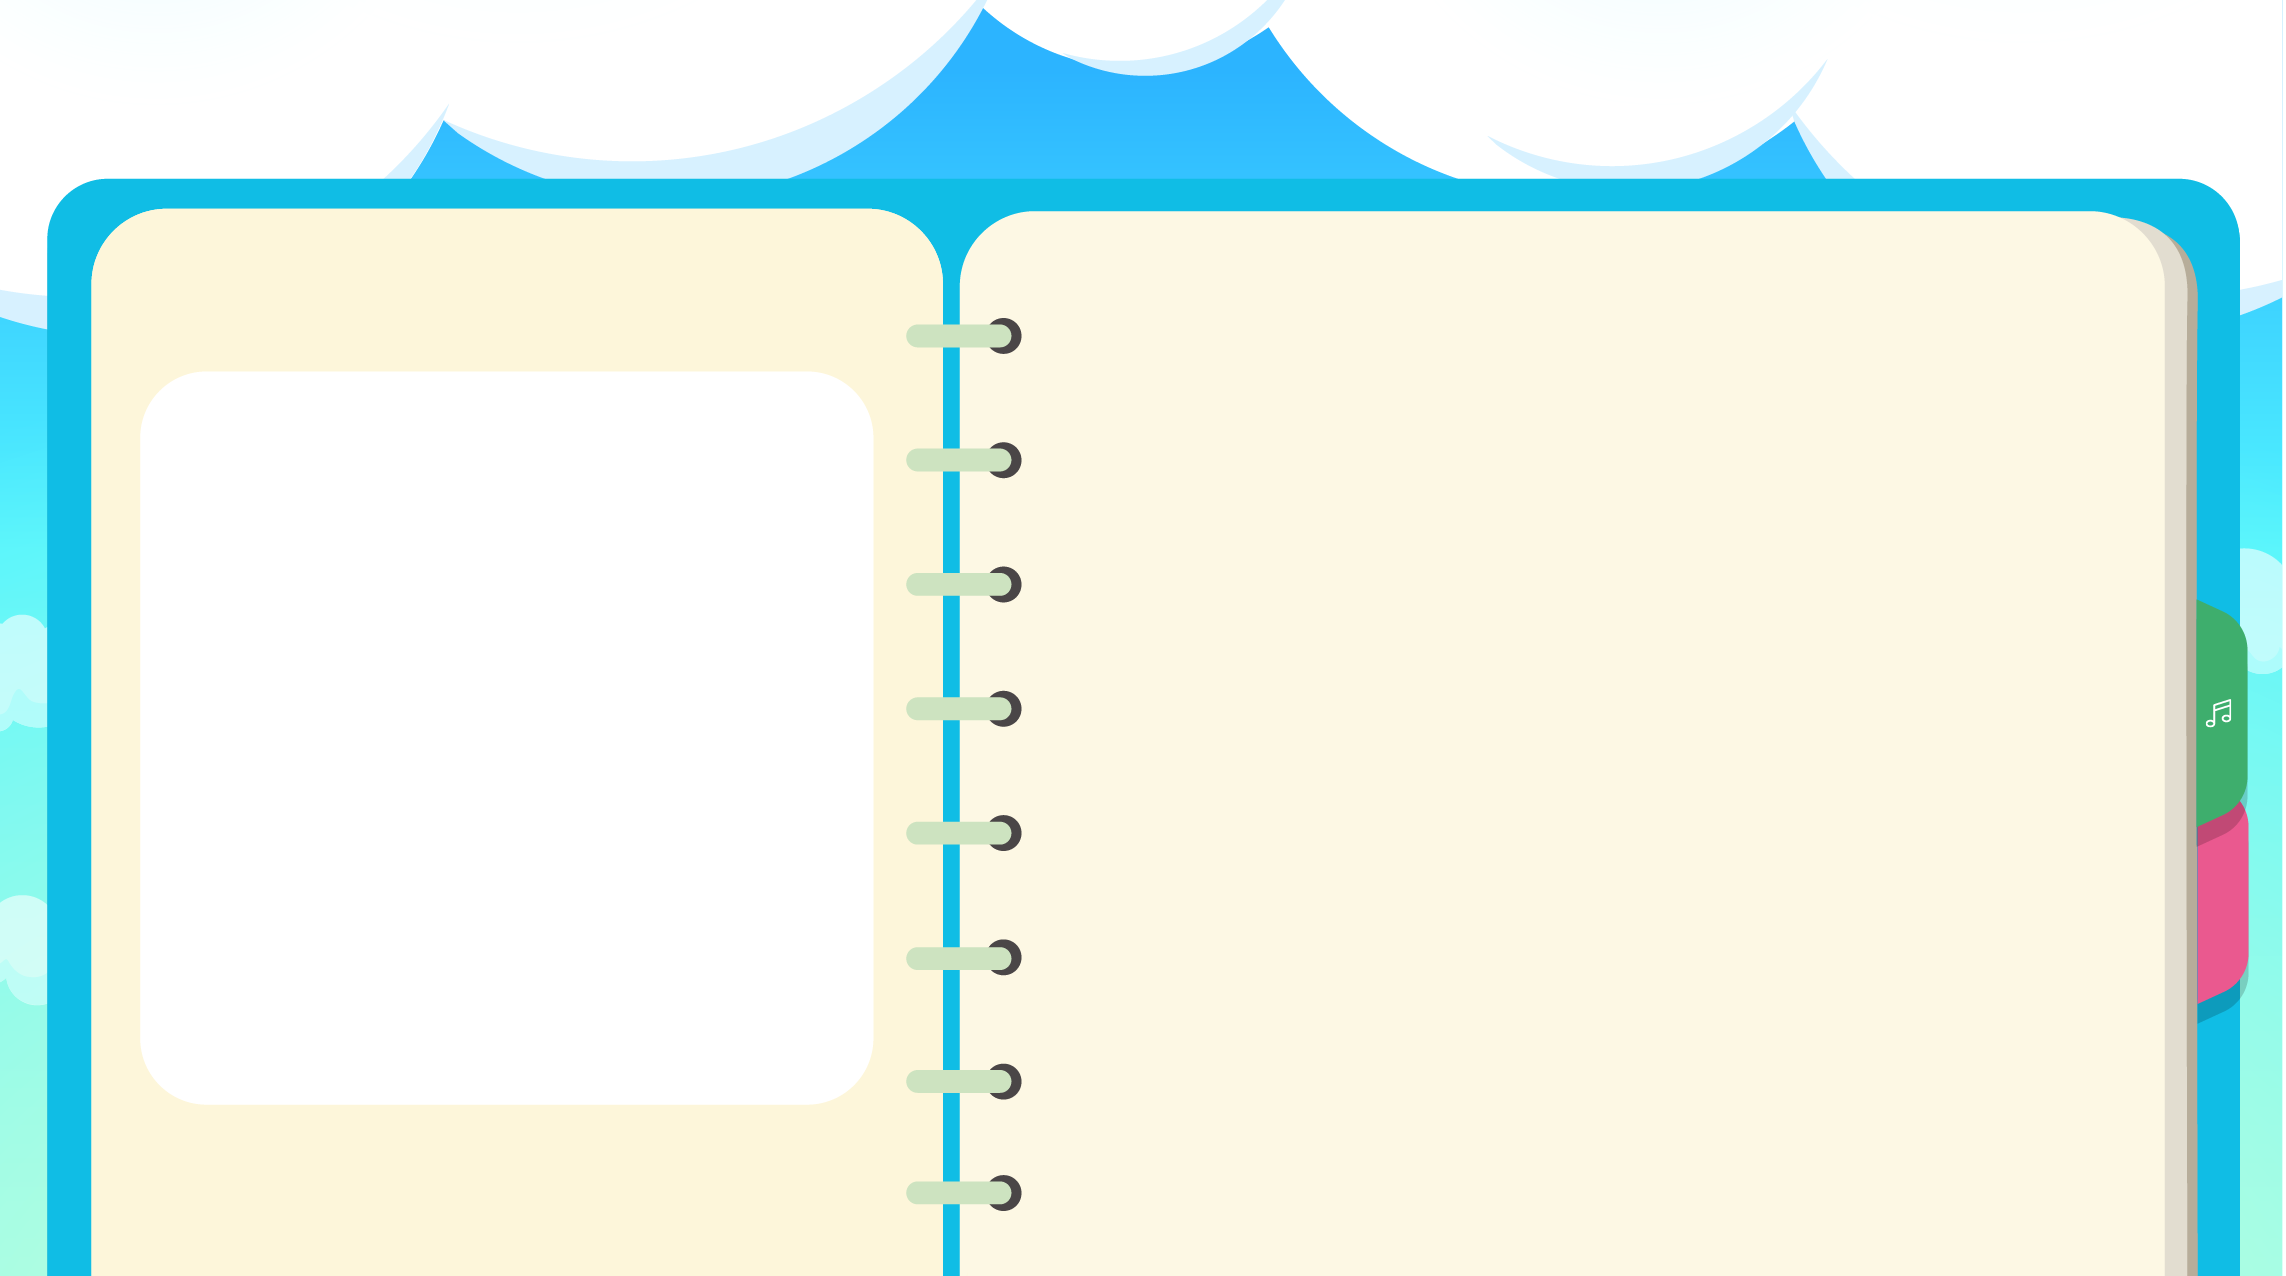
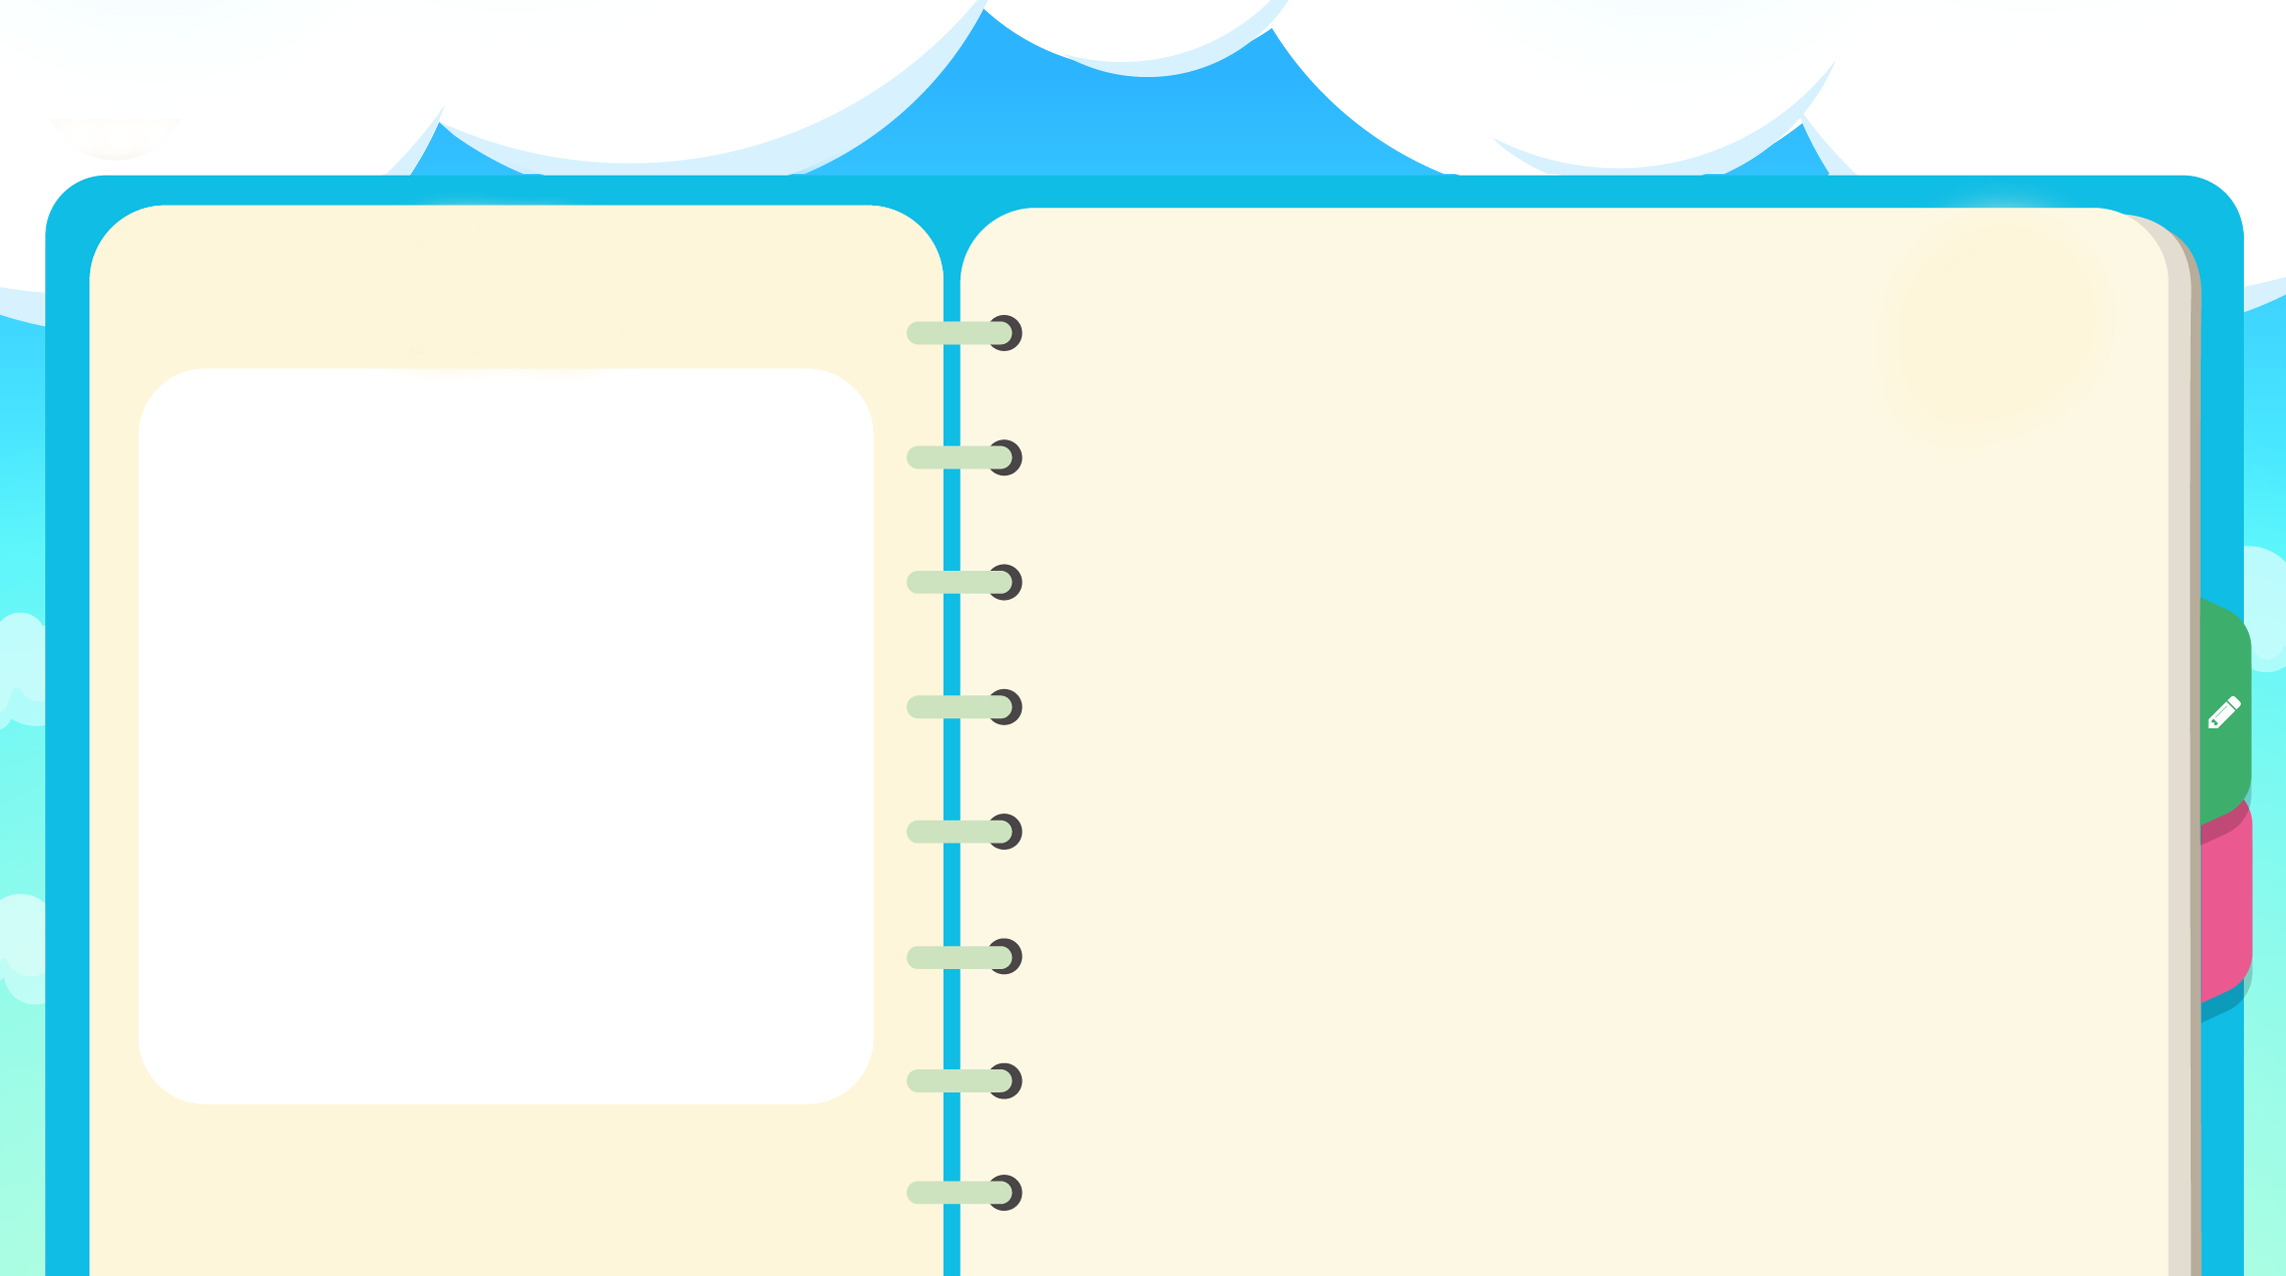
style on brush page

diff --git a/www/css/content.min.css b/www/css/content.min.css
@@ -1,1 +1,1 @@
-@font-face{font-family:'Daun Teav';src:url(../fonts/DaunTeav.ttf);src:url(../fonts/DaunTeav.ttf) format("truetype"),url(../fonts/DaunTeav.woff) format("woff"),url(../fonts/DaunTeav.woff2) format("woff2"),url(../fonts/DaunTeav.eot?#iefix) format("embedded-opentype"),url(../fonts/DaunTeav.svg#AngDaunTeav) format("svg");font-weight:400;font-style:normal}ion-view{font-family:"Daun Teav"!important}.app-background{background:url(../img/app-background.png) center center no-repeat fixed;background-size:cover}.activated{opacity:.3}.popup{width:60%!important;font-size:20px;text-align:center}.writing-background{background:url(../img/content/writing-background.png) center center no-repeat fixed;background-size:cover}.writing-contain{display:block;height:85%;margin-top:8%}.content-panel{float:left;text-align:center;font-weight:700;width:34%;height:85%;display:inline-block;position:relative;margin-left:5%}.content-title-numeric{display:block;position:relative;color:#000;font-size:16px;margin-top:6.5%;margin-left:0}.content-title{display:block;position:relative;color:#442C0C;font-size:22px;margin-top:2%}.content-panel img{max-width:90%;min-width:30%;max-height:72%;margin-top:8%}.writing-panel{height:78%;width:48%;display:inline-block;position:relative;background-color:#fff;margin-top:3%;margin-left:7%;border-radius:8%}.writing-footer{display:inline-block;position:relative;margin-left:8%;height:13%;width:85%}.writing-footer div{display:inline-block;background-size:contain;width:18%;height:100%}.previous{background:url(../img/content/previous.png) center center no-repeat}.delete{background:url(../img/content/delete.png) center center no-repeat;margin-left:49%;width:13%!important}.next{background:url(../img/content/next.png) center center no-repeat}.brush-popup .popup{background:url(../img/brush/brush-panel.png) center center no-repeat;background-size:contain;height:54%;width:100%}.brush-popup .popup-head{display:none}
+@font-face{font-family:'Daun Teav';src:url(../fonts/DaunTeav.ttf);src:url(../fonts/DaunTeav.ttf) format("truetype"),url(../fonts/DaunTeav.woff) format("woff"),url(../fonts/DaunTeav.woff2) format("woff2"),url(../fonts/DaunTeav.eot?#iefix) format("embedded-opentype"),url(../fonts/DaunTeav.svg#AngDaunTeav) format("svg");font-weight:400;font-style:normal}ion-view{font-family:"Daun Teav"!important}.app-background{background:url(../img/app-background.png) center center no-repeat fixed;background-size:cover}.activated{opacity:.3}.popup{width:60%!important;font-size:20px;text-align:center}.writing-background{background:url(../img/content/writing-background.png) center center no-repeat fixed;background-size:cover}.writing-contain{display:block;height:85%;margin-top:8%}.content-panel{float:left;text-align:center;font-weight:700;width:34%;height:85%;display:inline-block;position:relative;margin-left:5%}.content-title-numeric{display:block;position:relative;color:#000;font-size:16px;margin-top:6.5%;margin-left:0}.content-title{display:block;position:relative;color:#442C0C;font-size:22px;margin-top:2%}.content-panel img{max-width:90%;min-width:30%;max-height:72%;margin-top:8%}.writing-panel{height:78%;width:48%;display:inline-block;position:relative;background-color:#fff;margin-top:3%;margin-left:7%;border-radius:8%}.writing-footer{display:inline-block;position:relative;margin-left:8%;height:13%;width:85%}.writing-footer div{display:inline-block;background-size:contain;width:18%;height:100%}.previous{background:url(../img/content/previous.png) center center no-repeat}.delete{background:url(../img/content/delete.png) center center no-repeat;margin-left:49%;width:13%!important}.next{background:url(../img/content/next.png) center center no-repeat}

diff --git a/www/templates/brush.html b/www/templates/brush.html
@@ -1,8 +1,8 @@
-<!-- <ion-view class='brush-background'> -->
+<ion-view class='brush-background'>
 
-  <!-- <ion-content scroll='false'> -->
+  <ion-content scroll='false'>
 
-    <a class="button button-icon icon ion-close" ui-sref='grades'></a>
+    <a class="button button-icon icon ion-close" ui-sref='contents'></a>
 
     <div class='brush-panel'>
       <div class='brush-title'> ទំហំ និងពណ៌ខ្មៅដៃ </div>
@@ -15,35 +15,41 @@
           <div ng-click='setSizeLevel(0)' style="width: 4%; height: 60%; background-color: black; border-radius: 10px; display: inline-block; margin-left: 2%;">
           </div>
 
-          <div ng-click='setSizeLevel(1)' style="width: 5%; height: 75%; background-color: black; border-radius: 16px;  display: inline-block; margin-left: 39%">
+          <div ng-click='setSizeLevel(1)' style="width: 5%; height: 80%; background-color: black; border-radius: 16px;  display: inline-block; margin-left: 39%">
           </div>
 
           <div ng-click='setSizeLevel(2)'  style="width: 6%; height: 100%; background-color: black; border-radius: 22px;  display: inline-block;margin-left: 39%">
           </div>
 
-          <span style="display: inline-block; margin-top: 3%; font-size: 28px;">
+          <span style="margin-left: 0%;" ng-click='setSizeLevel(0)'>
             តូច
           </span>
-          <span style="display: inline-block;  margin-top: 3%;font-size: 28px; margin-left: 33%;">
+          <span ng-click='setSizeLevel(1)'>
             កណ្តាល
           </span>
-          <span style="display: inline-block;  margin-top: 3%;font-size: 28px; margin-left: 34%;">
+          <span ng-click='setSizeLevel(2)'>
             ធំ
           </span>
 
         </div>
 
-        <div class='color-selected'>
+        <div class='color-selected' ng-style="{'margin-left': 'calc(22.6% + (5.2% * '+colorIndex+'))'}">
 
         </div>
 
         <div class='color-bar'>
-
+          <div ng-repeat='i in [0, 1, 2, 3, 4, 5, 6, 7, 8]'
+              style='width: 6%; height: 28%; display: inline-block; margin-left: 1.2%; margin-right: 3%; margin-top: 7%'
+              ng-click='setColorIndex(i)'>
+          </div>
+          <div style='width: 6%; height: 28%; display: inline-block; margin-left: 1.3%; margin-top: 7%'
+              ng-click='setColorIndex(9)'>
+          </div>
         </div>
       </div>
 
     </div>
 
-  <!-- </ion-content>
+  </ion-content>
 
-</ion-view> -->
+</ion-view>

diff --git a/scss/brush.scss b/scss/brush.scss
@@ -6,12 +6,12 @@
 }
 
 .brush-panel {
-  // display: block;
-  // background: url("../img/brush/brush-panel.png") $background;
-  // background-size: 92% 92%;
-  // height: 90%;
-  // margin-top: 3.5%;
-  // width: 100%;
+  display: block;
+  background: url("../img/brush/brush-panel.png") $background;
+  background-size: 92% 92%;
+  height: 90%;
+  margin-top: 3.5%;
+  width: 100%;
 }
 
 .brush-title{
@@ -50,13 +50,20 @@
   margin-left: 24%;
 }
 
+.brush-size > span{
+  display: inline-block;
+  margin-top: 3%;
+  font-size: 28px;
+  margin-left: 34%;
+}
+
 .color-bar{
   background: url("../img/brush/color-range.png") $background;
   background-size: contain;
-  width: 52%;
-  height: 32%;
-  margin-left: 24%;
-  margin-top: -7.5%;
+  width: 51%;
+  height: 31%;
+  margin-left: 23%;
+  margin-top: -7.7%;
 }
 
 .pencil{
@@ -74,7 +81,6 @@
   background: url("../img/brush/selected-circle.png") $background;
   background-size: contain;
   width: 5%;
-  height: 13.9%;
+  height: 15.31%;
   margin-top: 3%;
-  margin-left: 48.5%;
 }

diff --git a/www/templates/contents.html b/www/templates/contents.html
@@ -5,10 +5,9 @@
     <div class="setting" ng-click='setting()'></div>
 
     <div class='writing-contain'>
-      <button ng-click='brushSetting()' >Brush setting </button >
       <div class='content-panel'>
 
-        <!-- <div>
+        <div>
           <span class='content-title-numeric'> មេរៀនទី {{currentLesson["khmer_numeric"]}}</span>
           <span class='content-title'> {{currentLesson["name"]}}</span>
         </div>
@@ -34,7 +33,7 @@
         <div ng-click="previous()" ng-class="{'previous' : !isDisabledPrevious()}"></div>
         <div class='delete' ng-click="redraw()"></div>
         <div class='next' ng-click='next()' ng-hide='isDisabledNext()'></div>
-      </div> -->
+      </div>
 
     </div>
 

diff --git a/www/js/brushes/brushes-controllers.js b/www/js/brushes/brushes-controllers.js
@@ -3,6 +3,7 @@ angular.module('app')
 .controller('BrushesCtrl', function($scope) {
   var vm = $scope;
   vm.sizeLevel = 0;
+  vm.colorIndex = 9;
 
   var colors = ["#919191", "#8F00FF", "#00CFFF", "#F900F3", "#FC0000" , "#FFA300", "#0600FF", "#00C10E" , "#FFF203", "#000000"];
   var size = [3,  6, 9];
@@ -16,6 +17,10 @@ angular.module('app')
     } else{
       size = 9;
     }
+  }
+
+  vm.setColorIndex = function(index){
+    vm.colorIndex = index;
   }
 
 })

diff --git a/scss/content.scss b/scss/content.scss
@@ -85,20 +85,3 @@
 .next{
   background: transparent url("../img/content/next.png") $background;
 }
-
-.brush-popup{
-  .popup{
-    background: url("../img/brush/brush-panel.png") $background;
-    background-size: contain;
-    height: 54%;
-    // margin-top: 3.5%;
-    width: 100%;
-  }
-  // .popup{
-  //   height: 90%;
-  //   width: 100%;
-  // }
-  .popup-head{
-    display: none;
-  }
-}

diff --git a/www/css/content.css b/www/css/content.css
@@ -93,12 +93,3 @@ ion-view {
 
 .next {
   background: transparent url("../img/content/next.png") center center no-repeat; }
-
-.brush-popup .popup {
-  background: url("../img/brush/brush-panel.png") center center no-repeat;
-  background-size: contain;
-  height: 54%;
-  width: 100%; }
-
-.brush-popup .popup-head {
-  display: none; }
